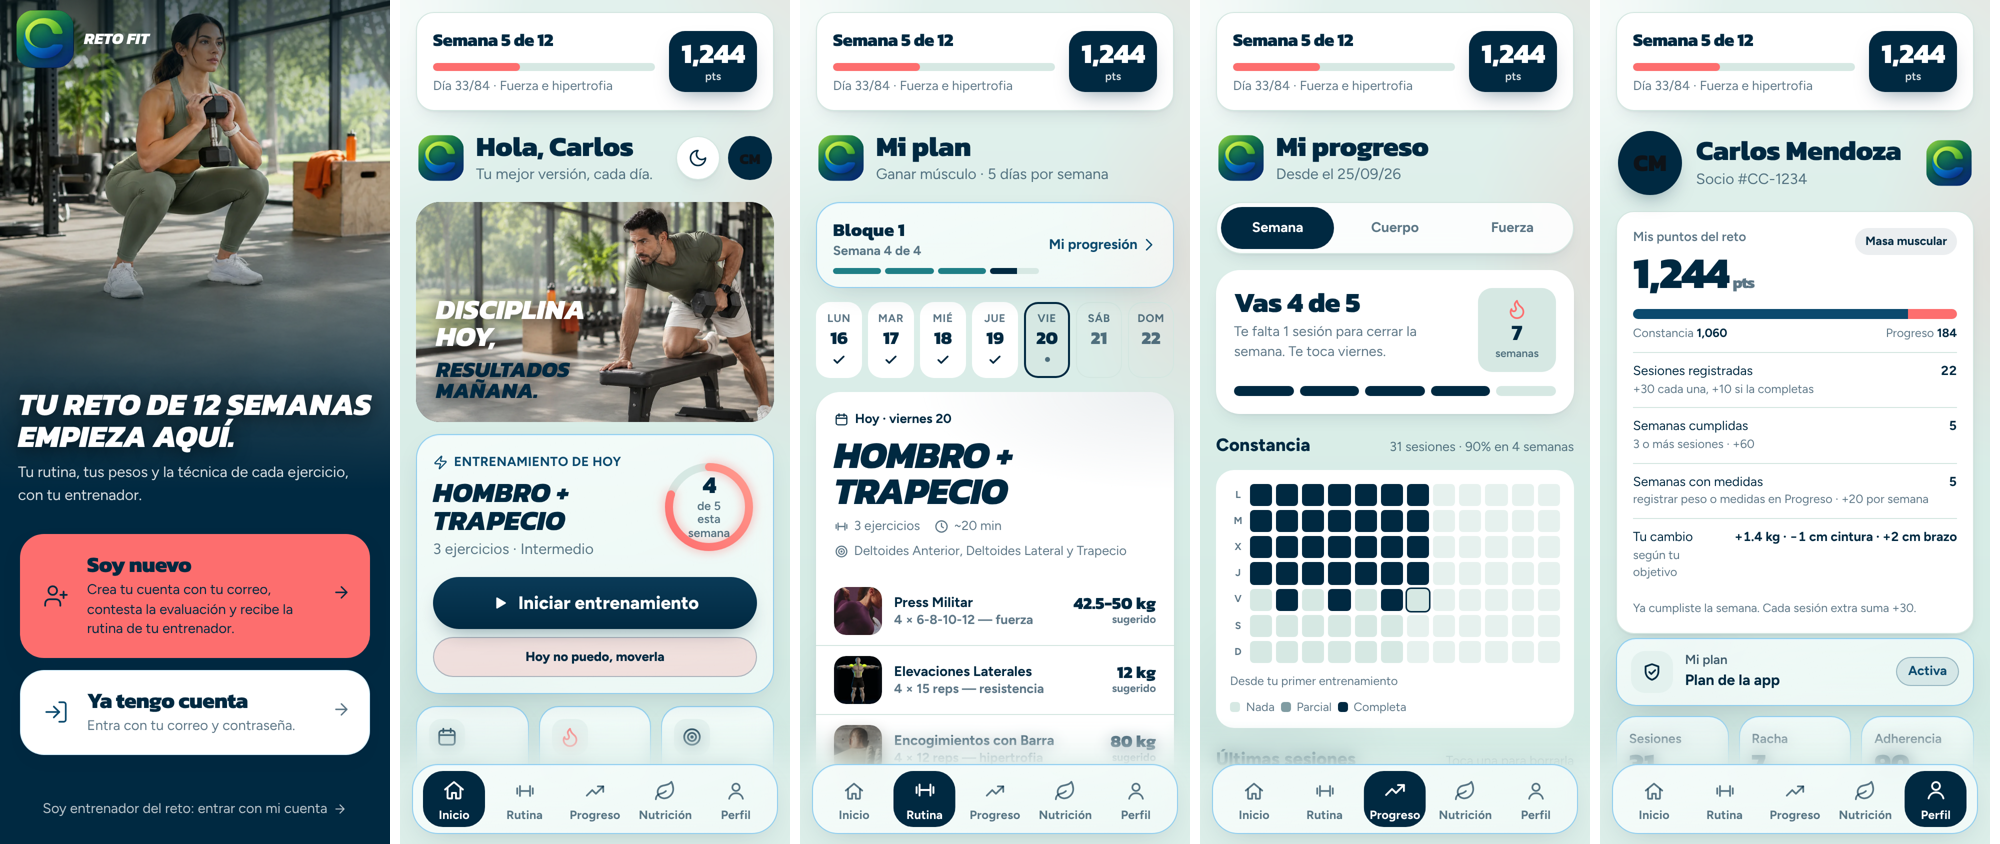
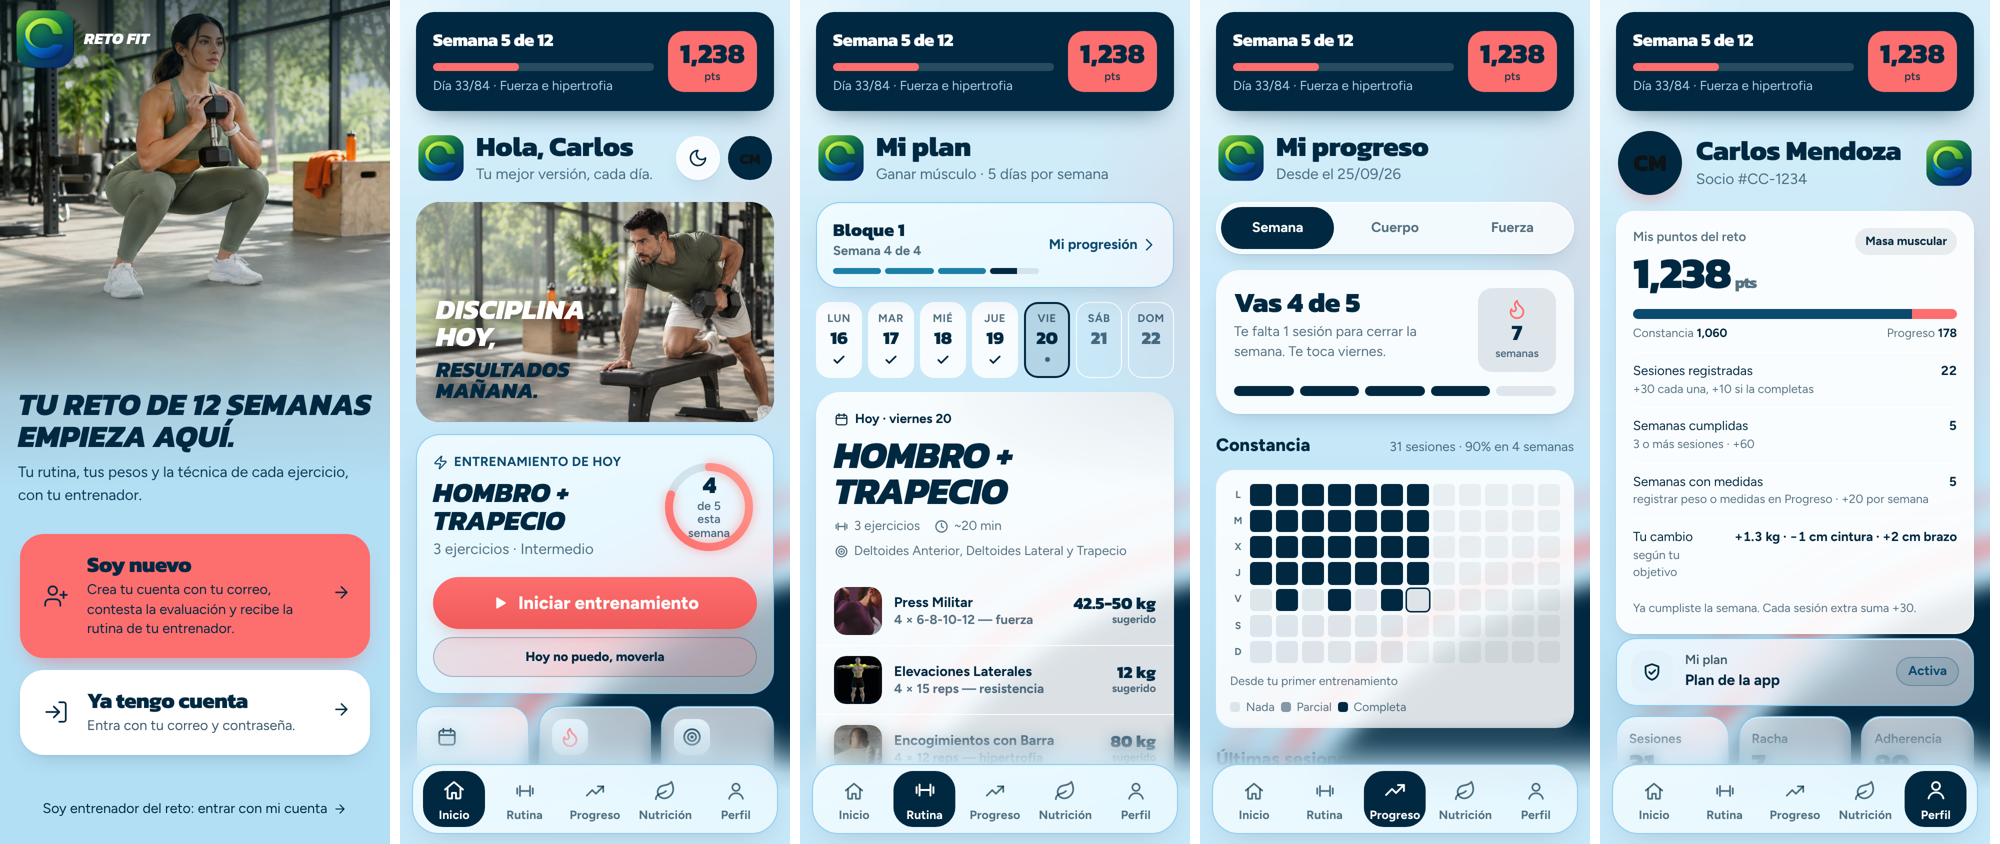
Tema Claro como la referencia: azul cielo, bloques navy y acentos coral
- Fondo azul cielo con una curva navy y trazo coral detrás del contenido.
- Tarjeta del reto como bloque navy con barra y puntos en coral.
- Botón principal en coral; portada en azul cielo con títulos navy y botón coral.

Claude-Session: https://claude.ai/code/session_01YU3tcXMKVi5PQi6C8mjWfF

diff --git a/css/tema-claro.css b/css/tema-claro.css
@@ -1,50 +1,74 @@
 /* ═══ Reto Fit CCA · Tema "Claro" ═══
-   Paleta elegida por el club: Pale Mint #CFE8E1 (fondo), Midnight Navy #002941 (texto, botones y lo activo)
-   y Coral #FD6E6E (acento: progreso, anillos, detalles). El coral se usa en rellenos y formas, no en texto
-   pequeño (sobre blanco no alcanza el contraste mínimo). Solo cambia colores del tema "light".
-   Se carga después de css/estilos.css. Para quitarlo, borra este archivo de index.html y sw.js. */
+   Referencia elegida por el club (paleta Pale Mint / Midnight Navy / Coral aplicada como en su ejemplo):
+   · fondo azul cielo claro, con una gran curva navy y un trazo coral detrás del contenido;
+   · navy (#002941) en bloques grandes (tarjeta del reto, pestaña activa) y en títulos;
+   · coral (#FD6E6E) en el botón principal, el progreso y las líneas de acento.
+   Solo cambia colores del tema "light". Se carga después de css/estilos.css. */
 
 html[data-theme="light"]{
   color-scheme:light;
-  --lime:#002941;                 /* navy: pestaña activa, botones */
-  --v:#0B4A6E;--v2:#1F7F86;       /* navy medio para acentos de texto; azul petróleo para lo cumplido */
+  --sky:#B3DFF5;--sky2:#D9F0FB;--navy:#002941;--coral:#FD6E6E;--coral2:#F05A5A;
+  --lime:#002941;                 /* navy: pestaña activa */
+  --v:#0B4A6E;--v2:#1C7FA8;
   --n:#0B4A6E;--g:#9A5B00;--r:#C9353E;--p:#3A5A86;
-  --heat:#FD6E6E;                 /* coral */
-  --dk:#DCEEE9;--dk2:#FFFFFF;--dk3:#FFFFFF;
-  --tx:#002941;--mu:color-mix(in srgb,#002941 64%,transparent);
-  --gl:#FFFFFF;--gl2:color-mix(in srgb,#FD6E6E 18%,transparent);
-  --b:#D3E6E0;--b2:#BFD9D2;
-  --in-bg:#F2F9F7;--in-bg2:#EAF5F2;
-  --topbar:rgba(240,248,246,.92);
+  --heat:#FD6E6E;
+  --dk:#C7E8F8;--dk2:#FFFFFF;--dk3:#FFFFFF;
+  --tx:#002941;--mu:color-mix(in srgb,#002941 66%,transparent);
+  --gl:rgba(255,255,255,.86);--gl2:color-mix(in srgb,#FD6E6E 18%,transparent);
+  --b:rgba(255,255,255,.9);--b2:#A9D3E8;
+  --in-bg:#F1F9FD;--in-bg2:#E7F4FB;
+  --topbar:rgba(214,238,250,.9);
   --btn-tx:#FFFFFF;
-  --grad:linear-gradient(180deg,#0A3A57 0%,#002941 100%);
+  --grad:linear-gradient(180deg,#F86464 0%,#EA4F4F 100%);   /* botón principal coral (un poco más profundo para que el texto blanco se lea) */
   --grad-txt:linear-gradient(135deg,#002941,#002941);
   --hi:rgba(255,255,255,.95);
-  --shadow:0 1px 2px rgba(0,41,65,.05),0 8px 20px -10px rgba(0,41,65,.18);
-  --glow:0 10px 22px -10px rgba(0,41,65,.5);
+  --shadow:0 1px 2px rgba(0,41,65,.06),0 10px 24px -12px rgba(0,41,65,.25);
+  --glow:0 10px 22px -10px rgba(240,90,90,.6);
   --scrim:rgba(0,20,32,.5);
-  --fill-track:#D6E8E3;
+  --fill-track:rgba(0,41,65,.10);
   --ring1:#FD6E6E;--ring2:#FF9B8F;
   --chart1:#002941;--chart2:#FD6E6E;
   --acc:#002941;--acc-tx:#002941;--acc-ink:#FFFFFF;--acc-soft:rgba(0,41,65,.08);
+  /* fondo: azul cielo + curva navy abajo a la derecha con su trazo coral */
   --mesh:
-    radial-gradient(70% 45% at 100% -5%, rgba(253,110,110,.14), transparent 60%),
-    radial-gradient(80% 55% at -10% 0%, rgba(255,255,255,.7), transparent 60%),
-    linear-gradient(180deg,#E4F2EE 0%,#CFE8E1 100%);
-  --gx-a:rgba(255,255,255,.55);--gx-b:rgba(253,110,110,.12);--gx-c:rgba(0,41,65,.08);
+    radial-gradient(circle at 118% 112%, #002941 0 38%, transparent 38.2%),
+    radial-gradient(circle at 118% 112%, transparent 0 40.5%, #FD6E6E 40.6% 41.4%, transparent 41.6%),
+    radial-gradient(circle at 118% 112%, transparent 0 44.5%, rgba(253,110,110,.55) 44.6% 45%, transparent 45.2%),
+    linear-gradient(180deg,#D9F0FB 0%,#B3DFF5 100%);
+  --gx-a:rgba(255,255,255,.5);--gx-b:rgba(253,110,110,.12);--gx-c:rgba(0,41,65,.08);
 }
-html[data-theme="light"] .it{background:#E3F1EE;color:#002941;}
+
+/* Tarjetas: blanco casi opaco para que el texto se lea sobre la curva navy */
+html[data-theme="light"] .glass,html[data-theme="light"] .card,html[data-theme="light"] .kpi,html[data-theme="light"] .today,
+html[data-theme="light"] .ej-card,html[data-theme="light"] .day-row,html[data-theme="light"] .stat,html[data-theme="light"] .pr-pts{
+  background:rgba(255,255,255,.9);border-color:rgba(255,255,255,.95);
+}
+html[data-theme="light"] .it{background:#E3F2FA;color:#002941;}
 html[data-theme="light"] .btn-go.soft{color:#002941;}
 html[data-theme="light"] .st-l,html[data-theme="light"] .memb-k{color:#3E5A6B;}
 html[data-theme="light"] .bn-i.ac{color:#FFFFFF;}
 html[data-theme="light"] .bn-ind::after{background:#FD6E6E;}
 html[data-theme="light"] .ic-pri .ic-label,html[data-theme="light"] .ic-pri .ic-sub,html[data-theme="light"] .ic-pri .ic-arrow{color:#FFFFFF;}
+
+/* Tarjeta del reto (arriba): bloque navy con progreso coral, como el bloque navy de la referencia */
+html[data-theme="light"] .reto-banner{background:#002941;border-color:#002941;color:#FFFFFF;box-shadow:0 12px 26px -14px rgba(0,41,65,.65);}
+html[data-theme="light"] .reto-banner .rb-s,html[data-theme="light"] .reto-banner .rb-d{color:#A9CFE6;}
+html[data-theme="light"] .reto-banner .rb-bar{background:rgba(255,255,255,.16);}
 html[data-theme="light"] .reto-banner .rb-bar i{background:#FD6E6E;}
-/* Tarjetas con foto: franja coral */
+html[data-theme="light"] .rb-pts{background:#FD6E6E;color:#002941;box-shadow:none;}
+/* Títulos en navy (la referencia usa navy pesado en cursiva) */
 html[data-theme="light"] .hero-card::after{background:linear-gradient(115deg,transparent 30%,rgba(253,110,110,.85) 30% 38%,transparent 38%);}
-/* Portada: navy en lugar de negro */
+
+/* Portada: azul cielo con títulos navy y botón coral */
 html[data-theme="light"] #s-inicio,
-html[data-theme="light"] #s-inicio .wc-hero{background:#002941;}
-html[data-theme="light"] #s-inicio .wc-ov{background:linear-gradient(0deg,#002941 0%,#002941 6%,rgba(0,41,65,.74) 26%,rgba(0,41,65,.12) 50%,rgba(0,41,65,0) 72%,rgba(0,41,65,.4) 100%);}
-html[data-theme="light"] #s-inicio .ic-pri{background:#FD6E6E;border-color:#FD6E6E;}
+html[data-theme="light"] #s-inicio .wc-hero{background:#B3DFF5;}
+html[data-theme="light"] #s-inicio .wc-ov{background:linear-gradient(0deg,#B3DFF5 0%,#B3DFF5 6%,rgba(179,223,245,.82) 24%,rgba(179,223,245,.15) 48%,rgba(179,223,245,0) 70%,rgba(0,41,65,.35) 100%);}
+html[data-theme="light"] #s-inicio .wc-tx h1{color:#002941;text-shadow:none;}
+html[data-theme="light"] #s-inicio .wc-tx p{color:#0B3A57;}
+html[data-theme="light"] #s-inicio .ic{background:#FFFFFF;border-color:#FFFFFF;color:#002941;}
+html[data-theme="light"] #s-inicio .ic .ic-label{color:#002941;}
+html[data-theme="light"] #s-inicio .ic .ic-sub{color:#3E5A6B;}
+html[data-theme="light"] #s-inicio .ic .ic-icon,html[data-theme="light"] #s-inicio .ic .ic-arrow{color:#002941;}
+html[data-theme="light"] #s-inicio .ic-pri{background:#FD6E6E;border-color:#FD6E6E;box-shadow:0 12px 24px -12px rgba(240,90,90,.7);}
 html[data-theme="light"] #s-inicio .ic-pri .ic-label,html[data-theme="light"] #s-inicio .ic-pri .ic-sub,html[data-theme="light"] #s-inicio .ic-pri .ic-arrow,html[data-theme="light"] #s-inicio .ic-pri .ic-icon{color:#002941;}
+html[data-theme="light"] #s-inicio .staff-link{color:#002941;}

diff --git a/sw.js b/sw.js
@@ -8,7 +8,7 @@
    → Los datos de Firebase NUNCA pasan por aquí (van directo).
    → Al desplegar cambios, sube CACHE_VERSION.
    ════════════════════════════════════════════════════════ */
-const CACHE_VERSION = 'retofit-cca-v8';
+const CACHE_VERSION = 'retofit-cca-v9';
 const PRECACHE_LOCAL = [
   './',
   './index.html',
